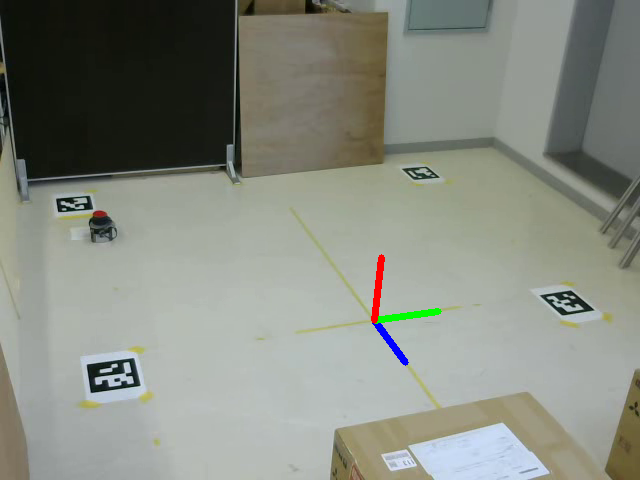
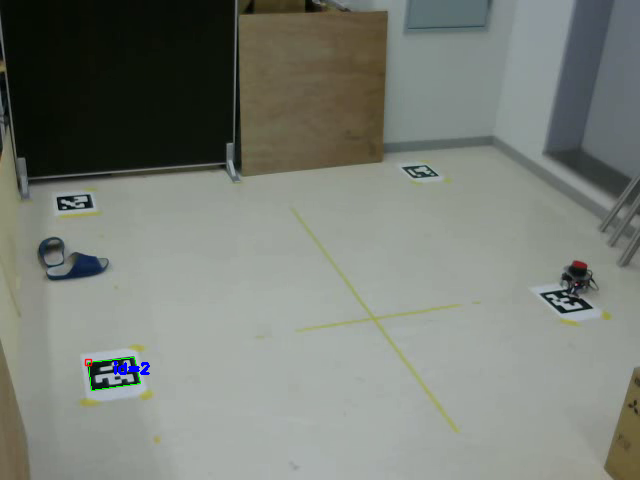
improved red region tracking using rgb information

diff --git a/trial/roomA_tracking.py b/trial/roomA_tracking.py
@@ -19,7 +19,12 @@ def extractRed(img):
     hsv_min = np.array([150,127,0])
     hsv_max = np.array([179,255,255])
     mask2 = cv2.inRange(hsv, hsv_min, hsv_max)
-    
+
+    # RGB search
+    bgr_min = np.array([0,0,120])
+    bgr_max = np.array([50,50,255])
+    mask3 = cv2.inRange(img,bgr_min, bgr_max)
+
     Mmt = cv2.moments(mask2)
     if Mmt["m00"] != 0:
         cx = Mmt['m10']/Mmt['m00']
@@ -32,12 +37,14 @@ def extractRed(img):
     return mask2,[cx,cy],flag
 
 
+
+
 if __name__=='__main__':
     cap = cv2.VideoCapture(0)
     # load camera matrix and distort matrix
     K = np.loadtxt("../calib_usb/K.csv",delimiter=",")
     dist_coef = np.loadtxt('../calib_usb/d.csv',delimiter=",")
-    vm = vmarker(markernum=5,K=K,dist=dist_coef,markerpos_file="roomA.csv")
+    vm = vmarker(markernum=5,K=K,dist=dist_coef,markerpos_file="roomA_ground_orig.csv")
     try:
         while ~cap.isOpened():
             ok,frame = cap.read()
@@ -45,11 +52,12 @@ if __name__=='__main__':
             mask,cpts,flag = extractRed(frame)
             cv2.imshow("mask",mask)
             if vm.PNPsolved*flag:
-                objxy = vm.getobjpose_1(cpts,-0.13)
-                print([objxy[0] -1.088,objxy[1] -1.412])
+                objxy = vm.getobjpose_1(cpts,0.13)
+                print([objxy[0] ,objxy[1]])
             else:
                 tv = vm.getcamerapose(frame)
                 cv2.imwrite('extraction.png',frame)
+            vm.showmarker(frame)
             cv2.waitKey(1)
             
 

diff --git a/trial/roomA_video.py b/trial/roomA_video.py
@@ -16,12 +16,21 @@ def extractRed(img):
     # HSV色空間に変換
     hsv = cv2.cvtColor(img, cv2.COLOR_BGR2HSV)
 
+    hsv_min = np.array([0,127,0])
+    hsv_max = np.array([2,255,255])
+    mask1  = cv2.inRange(hsv, hsv_min, hsv_max)
+
     # 赤色のHSVの値域2
-    hsv_min = np.array([150,127,0])
-    hsv_max = np.array([179,255,255])
+    hsv_min = np.array([150,150,0])
+    hsv_max = np.array([180,255,255])
     mask2 = cv2.inRange(hsv, hsv_min, hsv_max)
     
-    Mmt = cv2.moments(mask2)
+    # RGB search
+    bgr_min = np.array([0,0,120])
+    bgr_max = np.array([50,50,255])
+    mask3 = cv2.inRange(img,bgr_min, bgr_max)
+
+    Mmt = cv2.moments(mask2+mask3)
     if Mmt["m00"] != 0:
         cx = Mmt['m10']/Mmt['m00']
         cy = Mmt['m01']/Mmt['m00']
